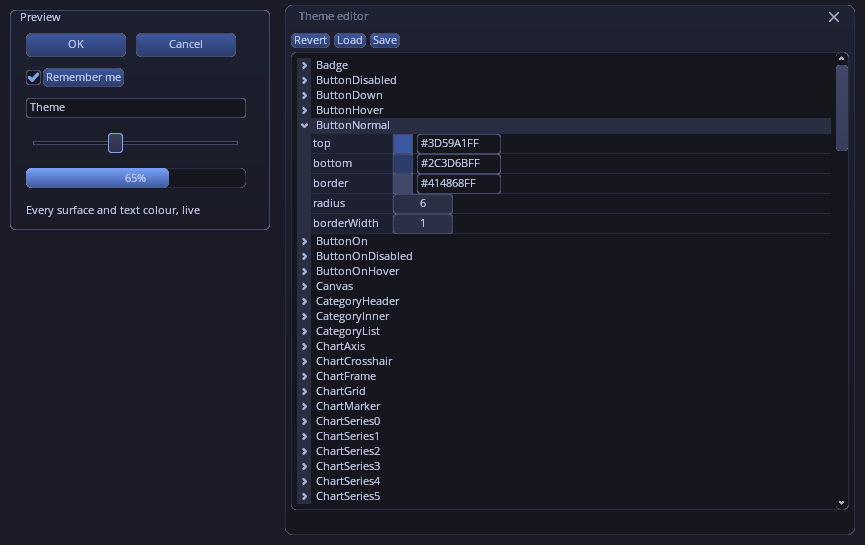
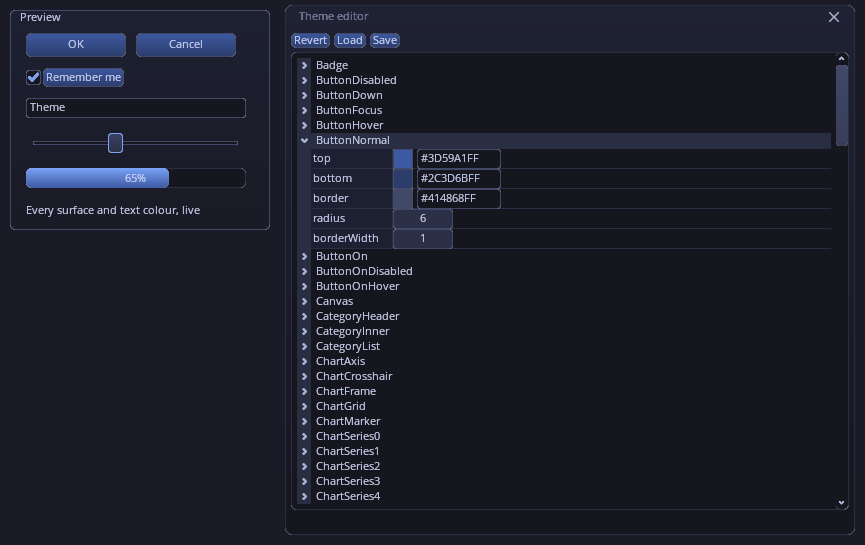
samples and docs: regenerated and recounted on the rebased branch (#607)
ThemeEditorDemo gains ButtonFocus in its list and the hero's demo list the
dialog and toast entries; the strict-theme counts are 150 surfaces and 57
text colours with main's Badge, Chip and syntax colours.

Changed region(s): [[0.3434, 0.1872, 0.9988, 0.7798]]

diff --git a/AGENTS.md b/AGENTS.md
@@ -368,7 +368,7 @@ A codepoint a run's face has no glyph for is drawn from the first face of that f
 `text::Tokenizer` (`include/gweni/text/tokenizer.h`) tokenizes one line from the `TokenState` it starts in (six `uint32_t` words, compared to tell whether an edit changed what the next line starts in; `nested()`/`inner()` keep one language's state after another's first word) into `Token`s (a byte range and a `TokenKind`: plain, keyword, string, number, comment, key, punctuation, heading, emphasis, strong, code, link, template, added, removed, hunk, meta) and returns the next line's state; a tokenizer keeps nothing between calls. The registry (`findLanguage`, `registerLanguage`, `languageNames`) holds the built-ins, one hand-written state machine each in `source/text/highlight/` (`yaml`, `json` with JSONC comments, `diff`, `bash`, `markdown` with fenced code tokenized in the fence's language, its state nested in the fence's, and `markdown+jinja`, `text::makeJinjaOverlay(host)` over Markdown: `{{ }}`, `{% %}` and `{# #}` cut out first, over lines too, the host tokenizing the line with each tag a word of as many letters, a line wholly inside tags leaving the host's state as it was); `languageForFileName` maps `*.yaml`/`*.yml`, `*.json`, `*.md`, `*.md.j2`, `*.diff`/`*.patch` and `*.sh`. `text::HighlightCache` (`include/gweni/text/highlightCache.h`) keeps each line's tokens, start and end state over a `Document` (its own observer, `attach`, or a caller's `linesChanged()`): lines `[0, frontier())` are fresh, a line past it is compared (text unchanged, start state the previous line's end) and tokenized only if that fails, so an edit tokenizes its lines and one that changes the end state tokenizes through the last line on screen (`setVisibleLines`) and no further, the rest done when asked for (`tokens(line)`, as a row is bound); inserted and removed lines shift the entries after them untokenized; `setChangeHandler` gets the lines an edit's pass gave new tokens. The tests are `tests/unit/highlight*.cpp` (hand-written expected tokens per language, seeded random edits through the cache equal to a fresh tokenize, a well-formed and repeatable fuzz over every built-in) and `tests/unit/codeEditorHighlight.cpp`; `tests/colorSpans.cpp` holds the span overload on both backends (`docs/architecture.md` → "Syntax highlighting", "Colour spans in a text run").
 
 ### SDF rounded-rect path (the active visual style)
-Style 4 is an analytic **signed-distance-field** rounded rectangle drawn in the fragment shader (`drawRoundedRect` on `renderer::Base`): vertical gradient fill + optional border, anti-aliased with a 1 px box filter (`clamp(0.5 - d/aa, 0, 1)`, the border likewise), so a pixel-aligned straight edge covers its outermost pixel fully and nothing outside, rects that abut leave no seam and an N px border is N whole rows; only a corner arc is partly covered. A pixel styles 4, 6 or 7 leave uncovered (outside a corner arc) is discarded and writes no depth, so a slot behind drawn after it still shows there (`tests/uncoveredDepth.cpp`). Its overload with an edge mask (`renderer::RoundedEdge`, packed in `Vertex::radius`'s high byte, so the radius is at most 255 device px; `renderer::Base`'s default drops the mask) makes the corners it names square and keeps the border off the sides it names, and its `reach` widens the quad on those sides by `max(1, snap(reach))` device px, so a tab drawn to its page frame's outer edge covers exactly the frame's border rows at any scale, for a tab joined to its page (`docs/architecture.md` → "OpenGLCore renderer (retained model)", the `Vertex` fields). The quad is exactly the rect: `lx/ly` are in half-pixel units (`±w`/`±h`, halved in the vertex shader), so odd sizes are exact. Style 5 is an **icon glyph** (`drawIcon`, `radius` = kind): a stroked SDF checkmark (0) or directional chevron (1) (checkbox ticks, combo/scrollbar arrows), and the window buttons' cross (2), dash (3), square (4) and restore (5), a separator's rule (6), and a filled triangle (7) and its outline (8), pointing as the chevron does (a NodeGraph's triangle pins). Kinds 2-6 are computed in device px over the square centred in the quad (the rule: the quad's whole length, horizontal for direction 0 and vertical for 1, through the floor of its middle), stroked `max(1, snap(1))` px (in `bx`'s high byte) with style 4's box filter, so the dash, squares and rule are whole fully covered rows and columns, and a rule is that thick wherever it lands on the pixel grid (a 1-unit rect snapped by `translate()` alone is 1 or 2 px depending on its position at 1.25 and 1.5). A style 5 pixel with less than half an 8-bit step of coverage is discarded, so it writes no depth (the textured `Separator` draws its rule one unit past it on both sides, over its neighbours). Style 3 is a **line segment** (`drawLine(id, p0, p1, thickness, z, prev, next)`, `PointF` endpoints in canvas units, the optional neighbours the polyline's points before `p0` and after `p1`): a capsule (round caps) `max(1, snap(thickness))` whole device px thick, each endpoint coordinate placed so the stroke across it starts on a whole px, so a horizontal or vertical segment is whole fully covered rows (columns); a pixel is covered by the exact area of it between the stroke's two edges (`pixelArea()`, a straight edge across the pixel normal to the direction from the segment's nearest point), so a thin slanted line is as bright on every row. A partly covered line pixel writes its depth up to half a layer behind its z (`mix(depth(z-0.5), depth(z), coverage)`, through `gl_FragDepth`, which every other style writes as `gl_FragCoord.z`), so the next segment of a polyline at the same z still draws over an earlier one's anti-aliased cap rim, while a fully covered pixel is blended once; one with less than half an 8-bit step of coverage is discarded, as for style 5. Segments drawn with their neighbours do not leave a joint to depth: the one nearest a pixel's centre draws it (ties to the earlier, every slot computing the same distances from the half-px-rounded centre through one `lineOffset()` loop) at the union of its and its nearer neighbour's coverage, and the others discard it, so a translucent polyline is blended once at every joint pixel on any depth buffer or backend; segments two or more apart keep the depth rule, and a neighbour 16383.5 px or more from the quad's centre is left out (`tests/lines.cpp`; `docs/architecture.md` → "Line segments (style 3)"). `renderer::Base`'s default is a filled rect along the longer axis (`docs/architecture.md` → "Line segments (style 3)"). Style 6 is a **four-corner bilinear fill** (`drawBilinearRect`, for a colour picker's saturation/value box): each vertex carries its own top-edge colour in color0 and bottom-edge colour in color3, both linear in x, so the shader's `mix` along y is exact with no diagonal crease. Style 7 is a **checker composite** (`drawCheckerRect`, for alpha previews): color0 with its alpha over 4 px cells of color1 (light) and color3 (dark), output opaque so the result does not depend on slot/draw order. Styles 4, 6 and 7 share one rounded mask, AA and border (`roundedRect()` in the fragment shader, `writeRoundedQuad()` on the CPU side); `renderer::Base`'s defaults for 6 and 7 approximate them with `drawRoundedRect`. The SDF fields are zero for all other styles, so the fill/texture/text paths are unchanged. Overlay primitives (checkmark, radio dot, arrows) must be drawn at `getZIndex()+1` so the `GL_LESS` depth test doesn't reject them behind their own background. A skin Control that draws at `+1` (or higher) must report it through `skin::Control::depthLayers()` (the z values it uses from `getZIndex()` on; `Base::renumberZRecursive` advances by it, and reads it only when the canvas renumbers, so a Control's count is fixed for its life unless it calls `Canvas::invalidateZOrder()`, or, for a count that follows its control (`skin::Control::depthLayersOf(control)`, a Chart's layer per series), the control calls `Base::zOrderChanged()`), otherwise its first child shares that depth; the textured `ProgressBar` reports 2 for its fill. What a Control draws in front of its own children goes at `getOverlayZIndex()`, the z after its subtree, which it reserves with `skin::Control::overlayLayers()` (read like `depthLayers()`); the textured `TextBox` draws its caret there, its selection at the text's z (`TextBox::getTextZIndex()`), and a text run's glyph i sits at `z+(i+1)/(glyphs+1)`, so a rect at the Text's z is behind every glyph (`docs/architecture.md` → "The TextBox caret and selection"). The textured skin drives it through `tokyonight::Surface` + `paintSurface()` (`include/gweni/skins/textured/tokyoNight.h`) and the `RoundedPrimitive` helper (`texturedPrimitives.h`); each control renderer's `update()` just picks a `Surface` for its state. The default theme is **Tokyo Night** (dark, blue-toned): surface fills are mutable globals in `tokyoNight.h`, text/line colors are set in code by `TexturedSkin::setThemeColors()`, and `renderText` bakes the control's draw color into the glyphs so per-control text colors apply; its overload with `renderer::ColorSpan`s (byte ranges, each a colour; `renderer::Base`'s default draws the run in the first span's colour) bakes each glyph's span colour, and a change of the spans or the colour alone rewrites only the glyph slots whose colour changed and lays nothing out (`SlotRenderer::colorTextRun`; the spans kept beside the run, by text id, so a plain run is what it was; `docs/architecture.md` → "Colour spans in a text run"). **The theme is swappable without recompiling**: an optional `"theme"` object in `resources/DefaultSkin.json` (`surfaces` + `textColors` + `metrics`) is loaded by `TexturedSkin::loadTheme()` and overrides any surface (by name, via `tokyonight::surfaceRegistry()`), text color or size (`skin::Base::Metrics`: `ScrollBarThickness`, a scroll bar's thickness and its square arrows' side, 12 in Tokyo Night and 15 in any other skin, read by the bar when it lays out); omitted entries keep the compiled defaults; `tools::ThemeEditor` edits, saves and loads it live. With `"strict": true` in that object (opt-in; the shipped file does not set it) every surface's `top`/`bottom`/`border` and every text colour in `TexturedSkin::textColorRegistry()` (the 57 names `"textColors"` takes) start as `colors::Missing` before the file is applied, so whatever it does not set, field by field, draws magenta (`radius`/`borderWidth` keep their compiled values), and one stderr line per kind lists the gaps (`theme strict: 136 of 140 surfaces not set: ..., ButtonOn, ...`, the shipped theme made strict); a surface that is transparent at rest (`WindowButton`, `SelectableHover`) turns magenta too unless the theme sets it to `[0,0,0,0]`, and strict gaps fail nothing (`init` stays `true`, a capture exits 0; `docs/architecture.md` → "The theme file and strict mode"). A skin config that cannot be used (missing, a directory, unreadable, not parsing, or not a JSON object) makes `TexturedSkin::init` print one stderr line naming it and return `false` with the skin still usable: every registered surface in `colors::Missing` (magenta, `colors::MissingDark` borders, through `tokyonight::setAllSurfacesMissing()`) and the text colours at their compiled defaults. An atlas texture (`textureFileName`) that does not load is reported and fails `init` too, but the rest of the config, the theme included, still applies. A missing image (`drawMissingImage`) is the same magenta. The legacy 9-slice atlas path (`BorderedPrimitive`) still exists but is no longer used by the converted controls.
+Style 4 is an analytic **signed-distance-field** rounded rectangle drawn in the fragment shader (`drawRoundedRect` on `renderer::Base`): vertical gradient fill + optional border, anti-aliased with a 1 px box filter (`clamp(0.5 - d/aa, 0, 1)`, the border likewise), so a pixel-aligned straight edge covers its outermost pixel fully and nothing outside, rects that abut leave no seam and an N px border is N whole rows; only a corner arc is partly covered. A pixel styles 4, 6 or 7 leave uncovered (outside a corner arc) is discarded and writes no depth, so a slot behind drawn after it still shows there (`tests/uncoveredDepth.cpp`). Its overload with an edge mask (`renderer::RoundedEdge`, packed in `Vertex::radius`'s high byte, so the radius is at most 255 device px; `renderer::Base`'s default drops the mask) makes the corners it names square and keeps the border off the sides it names, and its `reach` widens the quad on those sides by `max(1, snap(reach))` device px, so a tab drawn to its page frame's outer edge covers exactly the frame's border rows at any scale, for a tab joined to its page (`docs/architecture.md` → "OpenGLCore renderer (retained model)", the `Vertex` fields). The quad is exactly the rect: `lx/ly` are in half-pixel units (`±w`/`±h`, halved in the vertex shader), so odd sizes are exact. Style 5 is an **icon glyph** (`drawIcon`, `radius` = kind): a stroked SDF checkmark (0) or directional chevron (1) (checkbox ticks, combo/scrollbar arrows), and the window buttons' cross (2), dash (3), square (4) and restore (5), a separator's rule (6), and a filled triangle (7) and its outline (8), pointing as the chevron does (a NodeGraph's triangle pins). Kinds 2-6 are computed in device px over the square centred in the quad (the rule: the quad's whole length, horizontal for direction 0 and vertical for 1, through the floor of its middle), stroked `max(1, snap(1))` px (in `bx`'s high byte) with style 4's box filter, so the dash, squares and rule are whole fully covered rows and columns, and a rule is that thick wherever it lands on the pixel grid (a 1-unit rect snapped by `translate()` alone is 1 or 2 px depending on its position at 1.25 and 1.5). A style 5 pixel with less than half an 8-bit step of coverage is discarded, so it writes no depth (the textured `Separator` draws its rule one unit past it on both sides, over its neighbours). Style 3 is a **line segment** (`drawLine(id, p0, p1, thickness, z, prev, next)`, `PointF` endpoints in canvas units, the optional neighbours the polyline's points before `p0` and after `p1`): a capsule (round caps) `max(1, snap(thickness))` whole device px thick, each endpoint coordinate placed so the stroke across it starts on a whole px, so a horizontal or vertical segment is whole fully covered rows (columns); a pixel is covered by the exact area of it between the stroke's two edges (`pixelArea()`, a straight edge across the pixel normal to the direction from the segment's nearest point), so a thin slanted line is as bright on every row. A partly covered line pixel writes its depth up to half a layer behind its z (`mix(depth(z-0.5), depth(z), coverage)`, through `gl_FragDepth`, which every other style writes as `gl_FragCoord.z`), so the next segment of a polyline at the same z still draws over an earlier one's anti-aliased cap rim, while a fully covered pixel is blended once; one with less than half an 8-bit step of coverage is discarded, as for style 5. Segments drawn with their neighbours do not leave a joint to depth: the one nearest a pixel's centre draws it (ties to the earlier, every slot computing the same distances from the half-px-rounded centre through one `lineOffset()` loop) at the union of its and its nearer neighbour's coverage, and the others discard it, so a translucent polyline is blended once at every joint pixel on any depth buffer or backend; segments two or more apart keep the depth rule, and a neighbour 16383.5 px or more from the quad's centre is left out (`tests/lines.cpp`; `docs/architecture.md` → "Line segments (style 3)"). `renderer::Base`'s default is a filled rect along the longer axis (`docs/architecture.md` → "Line segments (style 3)"). Style 6 is a **four-corner bilinear fill** (`drawBilinearRect`, for a colour picker's saturation/value box): each vertex carries its own top-edge colour in color0 and bottom-edge colour in color3, both linear in x, so the shader's `mix` along y is exact with no diagonal crease. Style 7 is a **checker composite** (`drawCheckerRect`, for alpha previews): color0 with its alpha over 4 px cells of color1 (light) and color3 (dark), output opaque so the result does not depend on slot/draw order. Styles 4, 6 and 7 share one rounded mask, AA and border (`roundedRect()` in the fragment shader, `writeRoundedQuad()` on the CPU side); `renderer::Base`'s defaults for 6 and 7 approximate them with `drawRoundedRect`. The SDF fields are zero for all other styles, so the fill/texture/text paths are unchanged. Overlay primitives (checkmark, radio dot, arrows) must be drawn at `getZIndex()+1` so the `GL_LESS` depth test doesn't reject them behind their own background. A skin Control that draws at `+1` (or higher) must report it through `skin::Control::depthLayers()` (the z values it uses from `getZIndex()` on; `Base::renumberZRecursive` advances by it, and reads it only when the canvas renumbers, so a Control's count is fixed for its life unless it calls `Canvas::invalidateZOrder()`, or, for a count that follows its control (`skin::Control::depthLayersOf(control)`, a Chart's layer per series), the control calls `Base::zOrderChanged()`), otherwise its first child shares that depth; the textured `ProgressBar` reports 2 for its fill. What a Control draws in front of its own children goes at `getOverlayZIndex()`, the z after its subtree, which it reserves with `skin::Control::overlayLayers()` (read like `depthLayers()`); the textured `TextBox` draws its caret there, its selection at the text's z (`TextBox::getTextZIndex()`), and a text run's glyph i sits at `z+(i+1)/(glyphs+1)`, so a rect at the Text's z is behind every glyph (`docs/architecture.md` → "The TextBox caret and selection"). The textured skin drives it through `tokyonight::Surface` + `paintSurface()` (`include/gweni/skins/textured/tokyoNight.h`) and the `RoundedPrimitive` helper (`texturedPrimitives.h`); each control renderer's `update()` just picks a `Surface` for its state. The default theme is **Tokyo Night** (dark, blue-toned): surface fills are mutable globals in `tokyoNight.h`, text/line colors are set in code by `TexturedSkin::setThemeColors()`, and `renderText` bakes the control's draw color into the glyphs so per-control text colors apply; its overload with `renderer::ColorSpan`s (byte ranges, each a colour; `renderer::Base`'s default draws the run in the first span's colour) bakes each glyph's span colour, and a change of the spans or the colour alone rewrites only the glyph slots whose colour changed and lays nothing out (`SlotRenderer::colorTextRun`; the spans kept beside the run, by text id, so a plain run is what it was; `docs/architecture.md` → "Colour spans in a text run"). **The theme is swappable without recompiling**: an optional `"theme"` object in `resources/DefaultSkin.json` (`surfaces` + `textColors` + `metrics`) is loaded by `TexturedSkin::loadTheme()` and overrides any surface (by name, via `tokyonight::surfaceRegistry()`), text color or size (`skin::Base::Metrics`: `ScrollBarThickness`, a scroll bar's thickness and its square arrows' side, 12 in Tokyo Night and 15 in any other skin, read by the bar when it lays out); omitted entries keep the compiled defaults; `tools::ThemeEditor` edits, saves and loads it live. With `"strict": true` in that object (opt-in; the shipped file does not set it) every surface's `top`/`bottom`/`border` and every text colour in `TexturedSkin::textColorRegistry()` (the 57 names `"textColors"` takes) start as `colors::Missing` before the file is applied, so whatever it does not set, field by field, draws magenta (`radius`/`borderWidth` keep their compiled values), and one stderr line per kind lists the gaps (`theme strict: 146 of 150 surfaces not set: ..., ButtonOn, ...`, the shipped theme made strict); a surface that is transparent at rest (`WindowButton`, `SelectableHover`) turns magenta too unless the theme sets it to `[0,0,0,0]`, and strict gaps fail nothing (`init` stays `true`, a capture exits 0; `docs/architecture.md` → "The theme file and strict mode"). A skin config that cannot be used (missing, a directory, unreadable, not parsing, or not a JSON object) makes `TexturedSkin::init` print one stderr line naming it and return `false` with the skin still usable: every registered surface in `colors::Missing` (magenta, `colors::MissingDark` borders, through `tokyonight::setAllSurfacesMissing()`) and the text colours at their compiled defaults. An atlas texture (`textureFileName`) that does not load is reported and fails `init` too, but the rest of the config, the theme included, still applies. A missing image (`drawMissingImage`) is the same magenta. The legacy 9-slice atlas path (`BorderedPrimitive`) still exists but is no longer used by the converted controls.
 
 When adding or modifying a control, the rule is: mutating anything visual must call the appropriate `addStateChange(...)` (or `addStateChangeRecursive`) so the primitive gets regenerated — otherwise the change won't appear. `redraw()` does this for interaction state (hover, press, focus, disabled): it re-runs `updateColors()` and marks `StateChange_Background` on that control only, then sets the canvas's `needsRedraw()` flag; it no longer walks the ancestors. Issue it from the update phase, since the render phase clears the state change after rendering the control. Conversely, don't redraw unconditionally; that defeats the whole design.
 

diff --git a/docs/architecture.md b/docs/architecture.md
@@ -4286,12 +4286,12 @@ set by its bare name and one with some of them as `Name.field` per missing field
 the shipped theme with `"strict": true` added):
 
 ```
-theme strict: 136 of 140 surfaces not set: ButtonDisabled, ButtonDown, ButtonOn, ...
-theme strict: 50 of 52 text colors not set: AxisTagText, BadgeText, ButtonDisabled, ...
+theme strict: 146 of 150 surfaces not set: Badge, ButtonDisabled, ButtonDown, ...
+theme strict: 55 of 57 text colors not set: AxisTagText, BadgeText, ButtonDisabled, ...
 ```
 
-(`theme strict: all 140 surfaces set` for a kind with no gaps, and a single
-`theme strict: all 140 surfaces and 52 text colors set` when there are none at all). A
+(`theme strict: all 150 surfaces set` for a kind with no gaps, and a single
+`theme strict: all 150 surfaces and 57 text colors set` when there are none at all). A
 rejected value counts as not set. A surface that is transparent at rest on purpose
 (`WindowButton`, `SelectableHover`: a transparent fill hides the slot) is magenta too
 until the theme sets it to `[0,0,0,0]`; the theme has not said what it looks like. The
